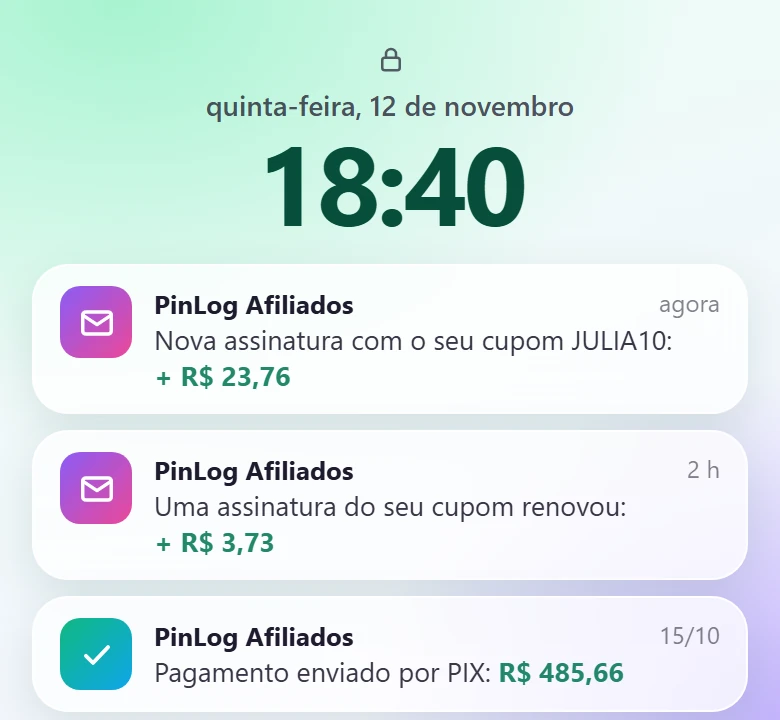
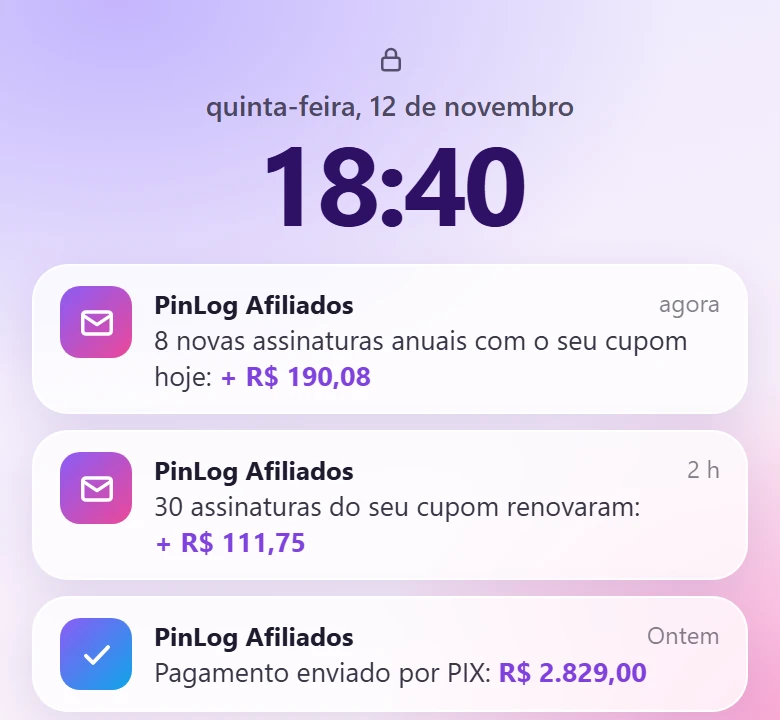
Afiliados: campo de divulgação obrigatório no cadastro, avisos nas cores do PinLog com valores maiores e "Ontem", painel de exemplo com números de afiliado forte

diff --git a/afiliados-cadastro.html b/afiliados-cadastro.html
@@ -46,8 +46,9 @@ permalink: /afiliados/cadastro
       </div>
 
       <div class="af-field">
-        <label for="af-channels">Onde você pretende divulgar <span class="af-optional">(opcional)</span></label>
-        <textarea id="af-channels" name="channels" rows="3" maxlength="300" placeholder="Ex.: Instagram @seuperfil, grupo de WhatsApp, indicação para amigos"></textarea>
+        <label for="af-channels">Onde você pretende divulgar</label>
+        <textarea id="af-channels" name="channels" rows="3" minlength="3" maxlength="300" required placeholder="Ex.: Instagram @seuperfil, grupo de WhatsApp, indicação para amigos"></textarea>
+        <p class="af-hint">Pode ser mais de um lugar: redes sociais, blog, grupos, comunidades ou indicação direta.</p>
       </div>
 
       <!-- Campo escondido: pessoas não preenchem, robôs sim. -->
@@ -103,7 +104,7 @@ permalink: /afiliados/cadastro
       invalid_name: 'Confira o seu nome completo.',
       invalid_email: 'Confira o seu e-mail.',
       invalid_code: 'O cupom precisa ter de 4 a 16 letras ou números.',
-      invalid_channels: 'O campo de divulgação aceita até 300 caracteres.',
+      invalid_channels: 'Conte onde você pretende divulgar, em até 300 caracteres.',
       terms_required: 'Para continuar, aceite os termos e as regras de divulgação.',
       code_taken: 'Esse cupom já está em uso. Escolha outro.',
       code_blocked: 'Esse cupom não é permitido. Escolha outro.',
@@ -183,6 +184,7 @@ permalink: /afiliados/cadastro
         termsVersion: '{{ site.affiliates.terms_version }}',
         website: document.getElementById('af-website').value
       };
+      if (body.channels.trim().length < 3) return showError('invalid_channels');
       if (!body.acceptTerms) return showError('terms_required');
       if (codeState === 'taken') return showError('code_taken');
       if (codeState === 'blocked') return showError('code_blocked');

diff --git a/afiliados.html b/afiliados.html
@@ -166,15 +166,15 @@ permalink: /afiliados
           <div class="dash-balance">
             <div>
               <small>Saldo a receber</small>
-              <strong>R$ 515,46</strong>
+              <strong>R$ 2.829,00</strong>
               <span class="dash-payday">Pagamento em 15/11</span>
             </div>
             <span class="dash-code"><small>Seu código</small>SEUNOME</span>
           </div>
           <div class="dash-stats">
-            <span><b>148</b> assinantes ativos</span>
-            <span><b>+12</b> novos este mês</span>
-            <span><b>R$ 3.284,10</b> já recebidos</span>
+            <span><b>900</b> assinantes ativos</span>
+            <span><b>+75</b> novos este mês</span>
+            <span><b>R$ 18.826,50</b> já recebidos</span>
           </div>
           <div class="dash-area">
             <small>Comissões nos últimos 30 dias</small>
@@ -194,7 +194,7 @@ permalink: /afiliados
             <li><span class="dash-av">A3</span><span><strong>#A3F9</strong> renovou o mensal</span><b>+ R$ 3,73</b></li>
             <li><span class="dash-av">7K</span><span><strong>#7KQ2</strong> assinou o anual</span><b>+ R$ 23,76</b></li>
             <li><span class="dash-av">C8</span><span><strong>#C81D</strong> assinou o mensal</span><b>+ R$ 3,73</b></li>
-            <li class="paid"><span class="dash-av">R$</span><span><strong>Pagamento enviado</strong> para você</span><b>R$ 485,66</b></li>
+            <li class="paid"><span class="dash-av">R$</span><span><strong>Pagamento enviado</strong> para você</span><b>R$ 2.642,75</b></li>
           </ul>
           <p class="dash-note">Exemplo ilustrativo. Os números são fictícios.</p>
         </div>

diff --git a/assets/css/site.css b/assets/css/site.css
@@ -3172,11 +3172,6 @@ a:hover {
   font-size: 15px;
 }
 
-.af-optional {
-  font-weight: 500;
-  color: var(--muted);
-}
-
 .af-field input,
 .af-field textarea {
   display: block;
